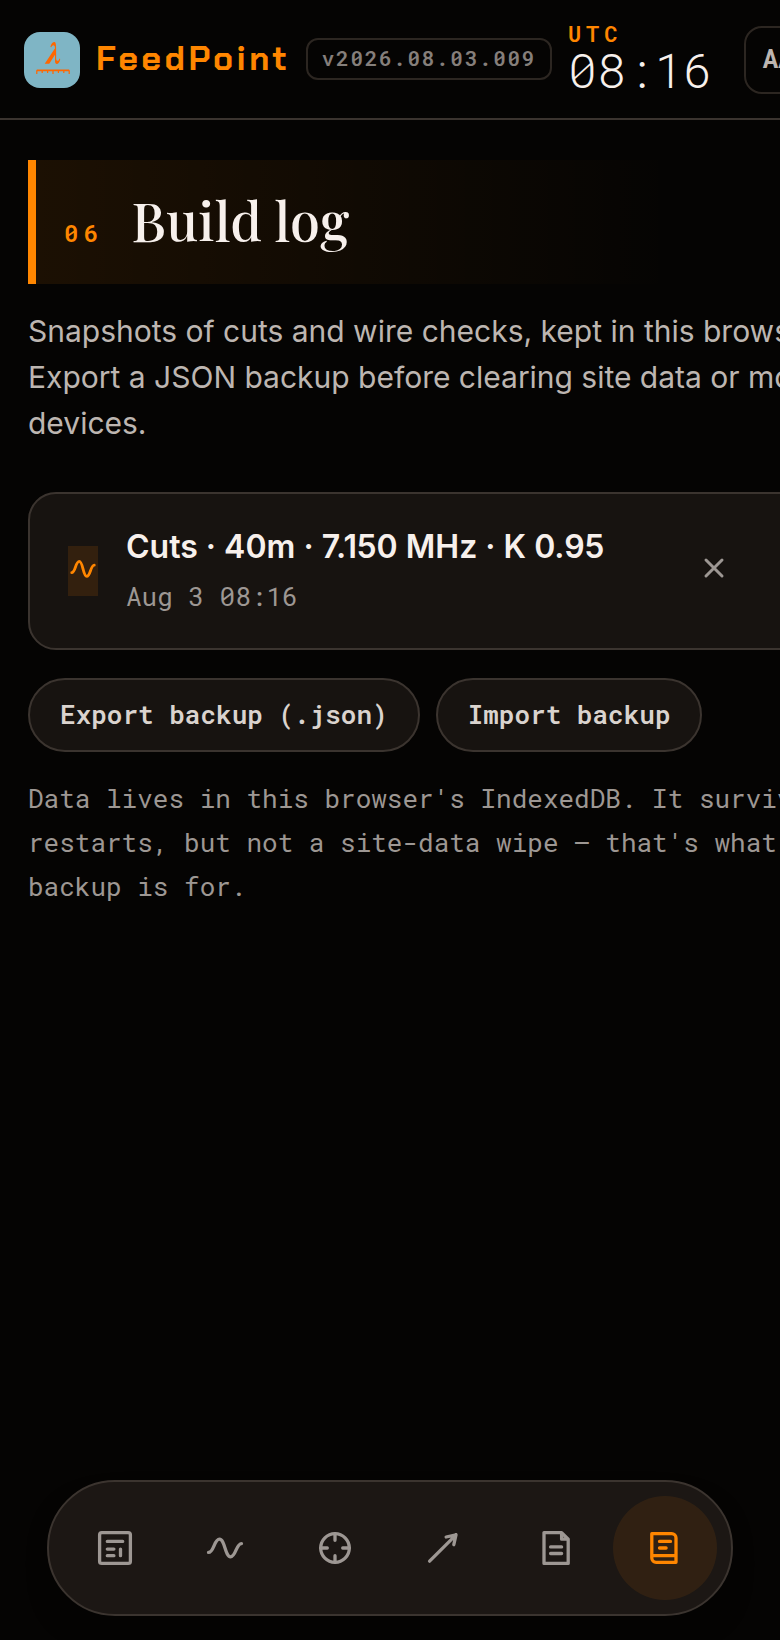
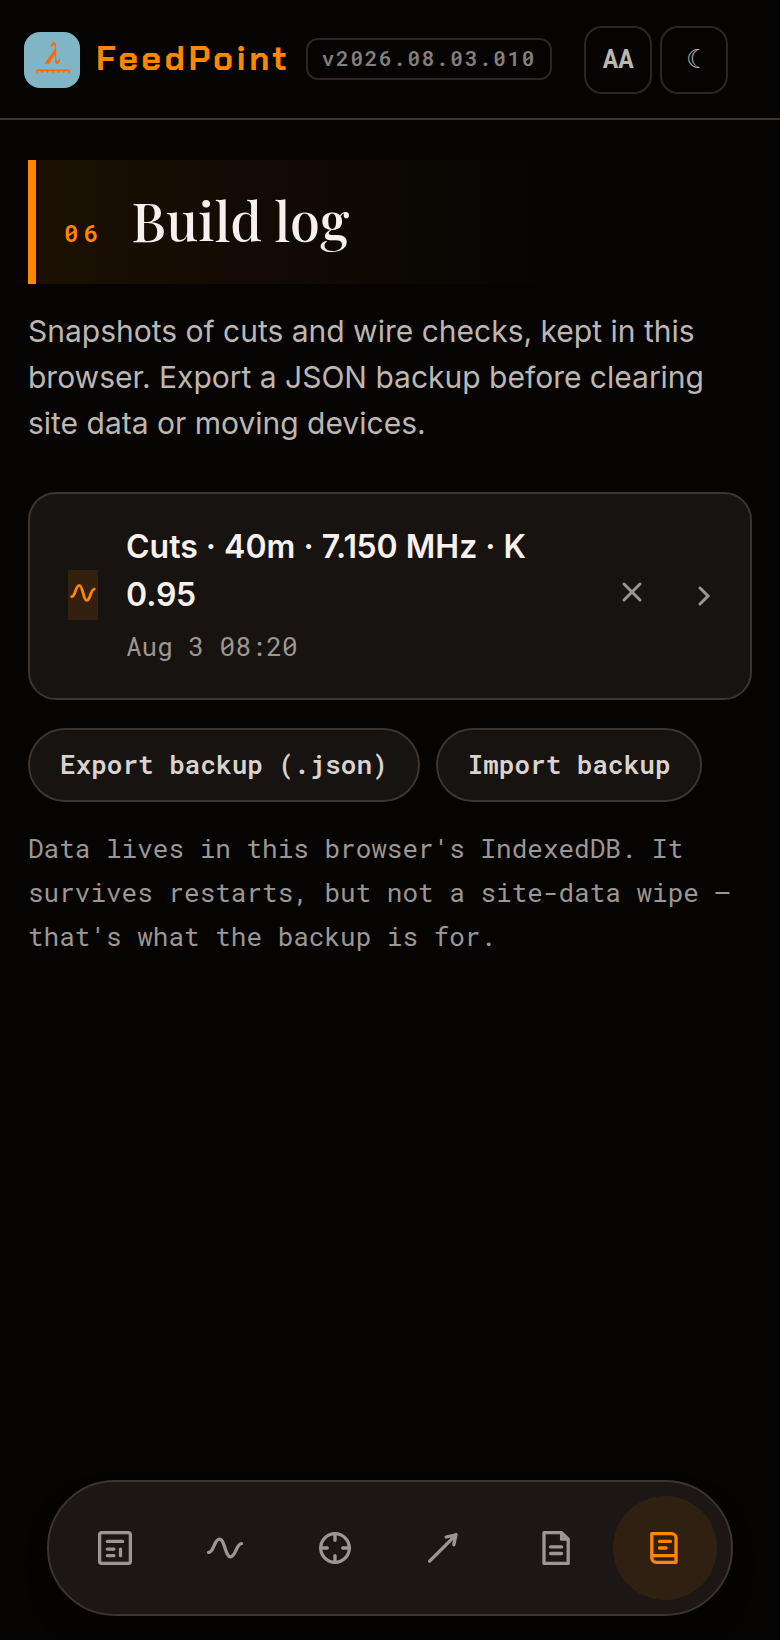
Remove header clocks; extend random-wire check to 160 m (v2026.08.03.010)
Drop the UTC/local clocks from the header at the owner's request -
the theme and AA buttons now sit alone on the right and the mobile
topbar has real breathing room. Clock markup, CSS, and the ticking
interval are gone entirely.

The random-wire check now includes 160 m (6 m stays excluded): short
wires get an honest SHORT verdict on topband, longer wires get real
verdicts, and the spike-free suggestion accounts for 160 m multiples.
Saved wire checks include the 160 m row.

Suite: 63 checks passing; README/HANDOFF updated; screenshots
regenerated.

Claude-Session: https://claude.ai/code/session_01GZ3L7jRgsTWVocKUHC7fWL

diff --git a/feedpoint.html b/feedpoint.html
@@ -80,12 +80,7 @@ a{color:var(--a0)}
 .brand{display:flex;align-items:center;gap:11px}
 .mark{width:32px;height:32px;border-radius:8px;background:#7FB5C5;display:grid;place-items:center;flex:none}
 .wordmark{font-family:var(--logo);font-weight:700;font-size:20px;letter-spacing:.1em;color:var(--a0)}
-#clocks{margin-left:auto;display:flex;gap:22px;align-items:baseline}
-.clock .cl-label{font:600 11px/1 var(--mono);letter-spacing:.22em;color:var(--a0)}
-.clock .cl-time{font:300 26px/1.1 var(--mono);color:var(--c0);font-variant-numeric:tabular-nums}
-.clock.dim .cl-label{color:var(--c3)}
-.clock.dim .cl-time{color:var(--c2)}
-#hdBtns{display:flex;gap:6px;margin-left:16px}
+#hdBtns{display:flex;gap:6px;margin-left:auto}
 .tbtn{width:40px;height:40px;border-radius:9px;display:grid;place-items:center;color:var(--c2);font:700 15px/1 var(--mono);border:.5px solid var(--edge-muted);transition:background .12s,color .12s}
 .tbtn:hover{background:var(--hover);color:var(--c0)}
 
@@ -117,9 +112,7 @@ a{color:var(--a0)}
   #dock{display:flex}
   #topbar{grid-column:1}
   #main{padding:20px 14px 130px}
-  .clock.dim{display:none}
   .v-head h1{font-size:27px}
-  .clock .cl-time{font-size:24px}
   .verpill{font-size:9.5px;padding:3px 5px;letter-spacing:.04em}
   #hdBtns{margin-left:8px;gap:4px}
   .tbtn{width:34px;height:34px;font-size:13px}
@@ -303,10 +296,6 @@ details.k summary .del{color:var(--c3);padding:8px;border-radius:7px;flex:none}
       <span class="mark" aria-hidden="true"><svg width="27" height="27" viewBox="0 0 40 40"><path d="M24.79 19.66L25.34 19.98Q25.11 21.50 24.42 22.64Q23.73 23.78 22.53 23.78Q21.50 23.78 21.50 21.73L21.50 16.90L21.45 16.90L17.24 23.48L13.86 23.48L21.50 12.07Q21.43 9.77 20.46 9.77Q19.22 9.77 18.65 11.33L18.09 11.06Q18.25 10.32 18.53 9.60Q18.81 8.87 19.46 8.15Q20.12 7.42 20.95 7.42Q21.73 7.42 21.99 8.47Q22.26 9.52 22.28 11.56L22.35 19.84Q22.35 21.38 23.25 21.38Q23.82 21.38 24.26 20.84Q24.69 20.30 24.79 19.66" fill="#FF6700"/><g stroke="#FF6700" stroke-linecap="butt" fill="none"><path d="M8 28.4 H32" stroke-width="1.4"/><path d="M8 28.4 V31.2 M12 28.4 V30.4 M16 28.4 V30.4 M20 28.4 V31.2 M24 28.4 V30.4 M28 28.4 V30.4 M32 28.4 V31.2" stroke-width=".9"/></g></svg></span>
       <span class="wordmark">FeedPoint</span>
       <span class="verpill appver" title="Build version"></span>
-    </div>
-    <div id="clocks">
-      <div class="clock"><div class="cl-label">UTC</div><div class="cl-time" id="clkUtc">--:--</div></div>
-      <div class="clock dim"><div class="cl-label" id="clkLocLbl">LOCAL</div><div class="cl-time" id="clkLoc">--:--</div></div>
     </div>
     <div id="hdBtns">
       <button id="btnTextSize" class="tbtn" type="button" title="Text size">AA</button>
@@ -541,7 +530,7 @@ details.k summary .del{color:var(--c3);padding:8px;border-radius:7px;flex:none}
 "use strict";
 const $=id=>document.getElementById(id);
 const FT_M=0.3048;
-const APP_VERSION="v2026.08.03.009";
+const APP_VERSION="v2026.08.03.010";
 const esc=s=>String(s).replace(/[&<>"']/g,c=>({"&":"&amp;","<":"&lt;",">":"&gt;",'"':"&quot;","'":"&#39;"}[c]));
 
 /* ---------- data ---------- */
@@ -620,19 +609,6 @@ function setTextSize(step,persist=true){
 }
 $("btnTheme").addEventListener("click",()=>setTheme(theme==="dark"?"light":"dark"));
 $("btnTextSize").addEventListener("click",()=>setTextSize(uiscale===3?1:uiscale+1));
-
-/* ---------- clocks ---------- */
-function tickClock(){
-  const now=new Date();
-  const f=(d,tz)=>d.toLocaleTimeString("en-US",{hour:"2-digit",minute:"2-digit",hour12:false,timeZone:tz});
-  $("clkUtc").textContent=f(now,"UTC");
-  $("clkLoc").textContent=f(now);
-}
-setInterval(tickClock,1000);tickClock();
-try{
-  const tz=Intl.DateTimeFormat().resolvedOptions().timeZone||"LOCAL";
-  $("clkLocLbl").textContent=tz.split("/").pop().replace(/_/g," ").toUpperCase();
-}catch(e){}
 
 /* ---------- navigation ---------- */
 const GROUPS=[["Workbench",["calc","wire"]],["Reference",["unun","ant","notes"]],["Records",["log"]]];
@@ -769,7 +745,7 @@ function markBand(){
    center: the worst-case distance (in half-wave multiples) from the length's
    multiple range to any integer. A wire clear at center can still hit an
    impedance spike at a band edge. */
-function wireBands(){return BANDS.filter(b=>b.n!=="160m"&&b.n!=="6m");}
+function wireBands(){return BANDS.filter(b=>b.n!=="6m");}
 function distToInt(a,b,n){return n<a?a-n:(n>b?n-b:0);}
 function bandOffset(ft,b){
   const mLo=ft*b.lo/468,mHi=ft*b.hi/468;

diff --git a/README.md b/README.md
@@ -57,7 +57,7 @@ Six views, reachable by click or by pressing <kbd>1</kbd>–<kbd>6</kbd>:
 | # | View | What it does |
 |:-:|------|--------------|
 | 01 | **Element calculator** | Pick a band or type a frequency; get EFHW, dipole, ¼-wave vertical, counterpoise, full-wave loop, and ⅝-wave cut lengths — feet-and-inches to the quarter inch, or meters. K-factor presets (bare / insulated / inverted-V), ITU region band plans (R1/R2/R3), and an orange dot on every band you've already cut for. |
-| 02 | **Random-wire check** | Test a 9:1 random-wire length against every band, 80–10 m. Verdicts across the whole band span, plus the nearest spike-free length when yours fails. |
+| 02 | **Random-wire check** | Test a 9:1 random-wire length against every band, 160–10 m. Verdicts across the whole band span, plus the nearest spike-free length when yours fails. |
 | 03 | **Ununs & baluns** | Build recipes for the four boxes that cover nearly every wire antenna: 1:1 choke, 4:1, 9:1, and the 49:1 EFHW autotransformer (2:14 turns) — QRP/100 W winding tables, a toroid core cheat sheet, and a coil winding calculator (Wheeler air-core + ferrite-toroid A·L turns). |
 | 04 | **End-fed antennas** | EFHW vs EFRW: harmonics tables, counterpoise rules, feed-end placement, and why 15 m rides the third harmonic. |
 | 05 | **Field notes** | The stuff datasheets skip: FT8 duty-cycle derating, NVIS as a feature, why a warm core is burning your signal. |
@@ -82,8 +82,6 @@ which one you're making.)
 
 - **Phone-first when it needs to be** — the sidebar becomes a floating dock,
   touch targets stay 48 px+, and the layout works one-handed on a summit.
-- **Dual clocks** — UTC for the log, local for lunch, automatically labeled
-  with your timezone.
 - **Keyboard-driven when you're home** — number keys switch views; every
   control is focusable and screen-reader labeled (`aria-live` toasts, visible
   focus rings, reduced-motion respected).

diff --git a/HANDOFF.md b/HANDOFF.md
@@ -32,6 +32,11 @@ Everything else — markup, CSS, JS — is the owner's verbatim.
 
 ## Release notes
 
+**`v2026.08.03.010` — header & wire range:** clocks removed from the header
+at the owner's request (theme + AA buttons now sit alone on the right); the
+random-wire check now includes 160 m (6 m still excluded) — short wires get
+an honest SHORT verdict there, and long-wire verdicts account for topband.
+
 **`v2026.08.03.005` — the full roadmap:** log↔calculator loop (load any
 entry back into its view; per-entry notes saved debounced; print a single
 entry as a clean black-on-white cut sheet via `@media print` + `.print-one`
@@ -83,14 +88,13 @@ constant stamped in the topbar pill + sidebar footer + backup JSON (`build`
 field), a storage-health dot in the sidebar footer, and delete-with-undo on
 log entries.
 
-Things the current file already has (don't regress them): dual UTC + local
-clocks, hash-based navigation surviving reload, numbered view tags (01–06)
+Things the current file already has (don't regress them): hash-based navigation surviving reload, numbered view tags (01–06)
 with serif Playfair titles, per-card SVG icons and contextual notes, 49:1
 recipe as 2:14-turn autotransformer with QRP/100 W build table and core cheat
 sheet (FT50→2×FT240), expandable spec-sheet log rows with per-entry × delete,
 save-button flash feedback, storage-health note detecting sandboxed IndexedDB,
-independent per-context unit toggles, and a wire check that skips 160 m/6 m
-and adds a SHORT verdict below a half wave.
+independent per-context unit toggles, and a wire check that covers 160-10 m
+(6 m excluded) and adds a SHORT verdict below a half wave.
 
 **Verdict-formula note:** within 7% of an integer half-wave multiple = AVOID,
 within 15% = MARGINAL. Since `v2026.08.03.002` this is computed across the
